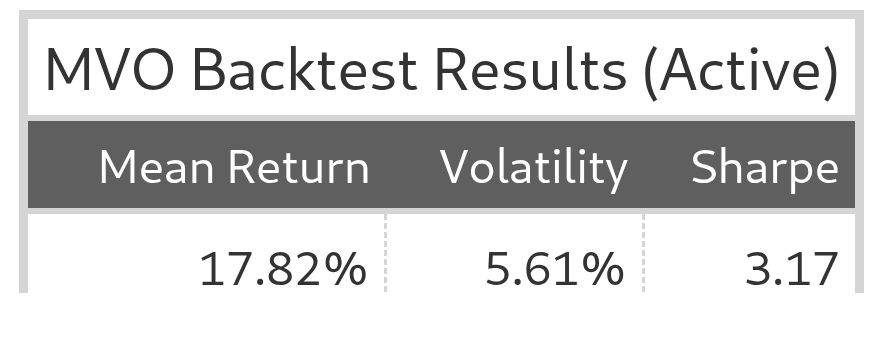
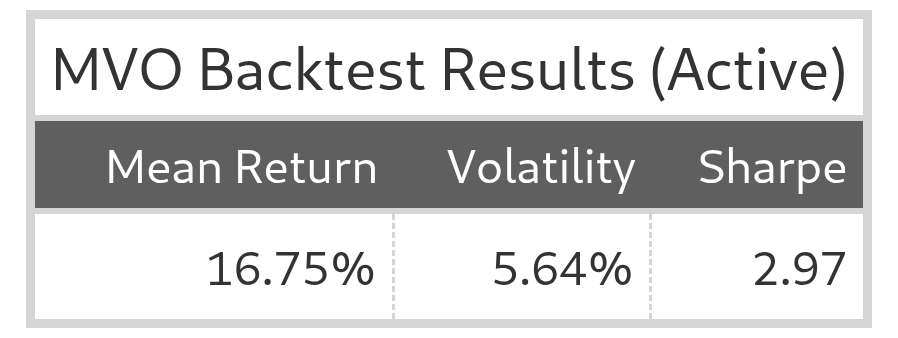
finished volume adjustment finally

diff --git a/research/experiments/experiment_8.py b/research/experiments/experiment_8.py
@@ -1,18 +1,20 @@
 import datetime as dt
+from pathlib import Path
 
+import great_tables as gt
+import matplotlib.pyplot as plt
+import numpy as np
 import polars as pl
+import seaborn as sns
 import sf_quant.data as sfd
 import sf_quant.optimizer as sfo
 from dotenv import load_dotenv
-import great_tables as gt
-from pathlib import Path
-
 
 # Load environment variables
 load_dotenv()
 
 # Parameters
-start = dt.date(2024, 1, 1)
+start = dt.date(2022, 1, 1)
 end = dt.date(2025, 12, 30)
 price_filter = 5
 signal_name = "barra_reversal_volume"
@@ -24,7 +26,7 @@ constraints = [
     sfo.FullInvestment(),
     sfo.LongOnly(),
     sfo.NoBuyingOnMargin(),
-    sfo.UnitBeta()
+    sfo.UnitBeta(),
 ]
 
 # Create results folder
@@ -68,53 +70,65 @@ filtered = signals.filter(
     pl.col(signal_name).is_not_null(),
     pl.col("predicted_beta").is_not_null(),
     pl.col("specific_risk").is_not_null(),
-    pl.col('date').eq(end)
+    pl.col("daily_volume").is_not_null(),
 )
 
 # Compute scores
-scores = (
-    filtered
-    .select(
-        "date",
-        "barrid",
-        "price",
-        "predicted_beta",
-        "specific_risk",
-        "daily_volume",
-        pl.col(signal_name)
-        .sub(pl.col(signal_name).mean())
-        .truediv(pl.col(signal_name).std())
-        .over("date")
-        .alias("score"),
+scores = filtered.select(
+    "date",
+    "barrid",
+    "price",
+    "predicted_beta",
+    "specific_risk",
+    "daily_volume",
+    pl.col(signal_name)
+    .sub(pl.col(signal_name).mean())
+    .truediv(pl.col(signal_name).std())
+    .over("date")
+    .alias("score"),
+)
+
+volume_scores = (
+    scores.sort(["barrid", "date"])
+    .with_columns(dollar_volume=pl.col("daily_volume").mul(pl.col("price")).log1p())
+    .with_columns(
+        # Mean can be calculated on Day 1
+        dollar_volume_mean=pl.col("dollar_volume")
+        .rolling_mean(window_size=252, min_samples=1)
+        .over("barrid"),
+        # Std Dev requires min_samples=2.
+        # It will still produce a null on Day 1.
+        dollar_volume_std=pl.col("dollar_volume")
+        .rolling_std(window_size=252, min_samples=2)
+        .over("barrid"),
+    )
+    .with_columns(
+        volume_score=(
+            (pl.col("dollar_volume") - pl.col("dollar_volume_mean"))
+            /
+            # fill the Day 1 null std with 1.0 (or any non-zero) to avoid division by null
+            pl.col("dollar_volume_std").fill_null(1.0).clip(lower_bound=0.0001)
+        )
+        .fill_null(0.0)  # Catch any remaining edge cases
+        .alias("volume_score")
     )
 )
 
-# compute time-series z-score for the dollar volume of each security
-volume_scores = (
-    scores
-    .sort('date', 'barrid')
-    .with_columns(
-        dollar_volume=pl.col("daily_volume").mul(
-            pl.col("price")
-        )  # calculate dollar volume (I dont think this is necessary actually)
-    )
-    .with_columns(
-        dollar_volume_mean=pl.col("dollar_volume")
-        .rolling_mean(window_size=252, min_samples=252)
-        .over("barrid"),
-        dollar_volume_std=pl.col("dollar_volume")
-        .rolling_std(window_size=252, min_samples=252)
-        .over("barrid"),
-    )
-    .with_columns(
-        pl.col("dollar_volume")
-        .sub(pl.col("dollar_volume").mean())
-        .truediv(pl.col("dollar_volume").std())
-        .over("barrid")
-        .alias("volume_score"),
-    )
-    .sort(["barrid", "date"])
-)
+# Convert just the score column to Pandas/Numpy for plotting
+score_data = volume_scores["volume_score"].to_numpy()
+
+plt.figure(figsize=(10, 6))
+sns.histplot(score_data, bins=100, kde=True, color="teal")
+plt.title("Distribution of Volume Z-Scores")
+plt.xlabel("Z-Score (Sigma)")
+plt.ylabel("Frequency")
+plt.axvline(x=2.0, color="r", linestyle="--", label="Cutoff (> 2.0)")
+plt.legend()
+plot_path = results_folder / "volume_zscore_distribution.png"
+plt.savefig(plot_path, dpi=300, bbox_inches="tight")
+
+# Filter universe to just be last day
+volume_scores = volume_scores.filter(pl.col("date").eq(end))
 
 # Compute alphas with conditional logic: Set alpha to 0 if reversal is high with strong volume
 alphas = (
@@ -124,7 +138,7 @@ alphas = (
     )
     .with_columns(
         # Set alpha to 0 if both score > 1 and volume_score > 1
-        alpha=pl.when((pl.col("score") > 1.0) & (pl.col("volume_score") > 1.0))
+        alpha=pl.when((pl.col("score") > 2.0) & (pl.col("volume_score") > 2.0))
         .then(0.0)
         .otherwise(pl.col("gk_alpha"))
     )
@@ -133,13 +147,13 @@ alphas = (
 )
 
 # Set up mean variance optimization
-alphas_np = alphas['alpha'].to_numpy()
-betas_np = alphas['predicted_beta'].to_numpy()
-barrids = alphas['barrid'].to_list()
+alphas_np = alphas["alpha"].to_numpy()
+betas_np = alphas["predicted_beta"].to_numpy()
+barrids = alphas["barrid"].to_list()
 
 # Get covariance matrix
 covariance_matrix = sfd.construct_covariance_matrix(date_=end, barrids=barrids)
-covariance_matrix_np = covariance_matrix.drop('barrid').to_numpy()
+covariance_matrix_np = covariance_matrix.drop("barrid").to_numpy()
 
 # Get optimal weights
 weights = sfo.mve_optimizer(
@@ -148,62 +162,52 @@ weights = sfo.mve_optimizer(
     covariance_matrix=covariance_matrix_np,
     constraints=constraints,
     gamma=gamma,
-    betas=betas_np
+    betas=betas_np,
 )
 
 # Get benchmark weights
-benchmark_weights = (
-    sfd.load_benchmark(
-        start=start,
-        end=end
-    )
-    .filter(
-        pl.col('date').eq(end)
-    )
+benchmark_weights = sfd.load_benchmark(start=start, end=end).filter(
+    pl.col("date").eq(end)
 )
 
 # Get ticker mapping
 tickers = sfd.load_assets_by_date(
-    date_=end,
-    in_universe=True,
-    columns=['barrid', 'ticker']
+    date_=end, in_universe=True, columns=["barrid", "ticker"]
 )
 
 # Compute active weights and pct_change_bmk
 all_weights = (
-    benchmark_weights
-    .rename({'weight': 'bmk_weight'})
-    .join(
-        other=weights.rename({'weight': 'total_weight'}),
-        on=['barrid'],
-        how='left'
-    )
-    .join(
-        other=tickers,
-        on=['barrid'],
-        how='left'
-    )
-    .with_columns(
-        pl.col('total_weight').fill_null(0)
-    )
+    benchmark_weights.rename({"weight": "bmk_weight"})
+    .join(other=weights.rename({"weight": "total_weight"}), on=["barrid"], how="left")
+    .join(other=tickers, on=["barrid"], how="left")
+    .with_columns(pl.col("total_weight").fill_null(0))
     .select(
-        'date',
-        'ticker',
-        'barrid',
-        'total_weight',
-        'bmk_weight',
-        pl.col('total_weight').sub(pl.col('bmk_weight')).alias('active_weight')
+        "date",
+        "ticker",
+        "barrid",
+        "total_weight",
+        "bmk_weight",
+        pl.col("total_weight").sub(pl.col("bmk_weight")).alias("active_weight"),
     )
     .with_columns(
-        pl.col('total_weight').truediv('bmk_weight').sub(1).alias('pct_change_bmk')
+        pl.col("total_weight").truediv("bmk_weight").sub(1).alias("pct_change_bmk")
     )
-    .sort('total_weight', descending=True)
-    .head(10)
+    .sort("total_weight", descending=True)
 )
+
+active_weights_np = all_weights.sort("barrid")["active_weight"].to_numpy()
+barrids = all_weights.sort("barrid")["barrid"].to_list()
+
+# Get covariance matrix
+covariance_matrix = sfd.construct_covariance_matrix(date_=end, barrids=barrids)
+covariance_matrix_np = covariance_matrix.drop("barrid").to_numpy()
+
+active_risk = np.sqrt(active_weights_np @ covariance_matrix_np @ active_weights_np.T)
+print(f"Active Risk: {active_risk * 100:.2}%")
 
 # Create summary table
 table = (
-    gt.GT(all_weights)
+    gt.GT(all_weights.head(10))
     .tab_header(title="Volume Conditioned Barra Reversal Portfolio")
     .cols_label(
         date="Date",
@@ -211,9 +215,11 @@ table = (
         total_weight="Total Weight",
         bmk_weight="Benchmark Weight",
         active_weight="Active Weight",
-        pct_change_bmk="Benchmark Percent Change"
+        pct_change_bmk="Benchmark Percent Change",
     )
-    .fmt_percent(["total_weight", "bmk_weight", "active_weight", "pct_change_bmk"], decimals=2)
+    .fmt_percent(
+        ["total_weight", "bmk_weight", "active_weight", "pct_change_bmk"], decimals=2
+    )
     .opt_stylize(style=4, color="gray")
 )
 

diff --git a/research/experiments/experiment_7a.py b/research/experiments/experiment_7a.py
@@ -80,8 +80,7 @@ scores = filtered.select(
 
 # compute time-series z-score for the dollar volume of each security
 volume_scores = (
-    scores
-    .sort('date', 'barrid')
+    scores.sort("date", "barrid")
     .with_columns(
         dollar_volume=pl.col("daily_volume").mul(
             pl.col("price")
@@ -97,11 +96,16 @@ volume_scores = (
     )
     .with_columns(
         pl.col("dollar_volume")
-        .sub(pl.col("dollar_volume").mean())
-        .truediv(pl.col("dollar_volume").std())
+        .sub(pl.col("dollar_volume_mean"))
+        .truediv(pl.col("dollar_volume_std"))
         .over("barrid")
         .alias("volume_score"),
     )
+    # .with_columns(
+    #     volume_score=pl.col("volume_score")
+    #         .ewm_mean(span=3, ignore_nulls=True)
+    #         .over("barrid")
+    # )
     .sort(["barrid", "date"])
 )
 
